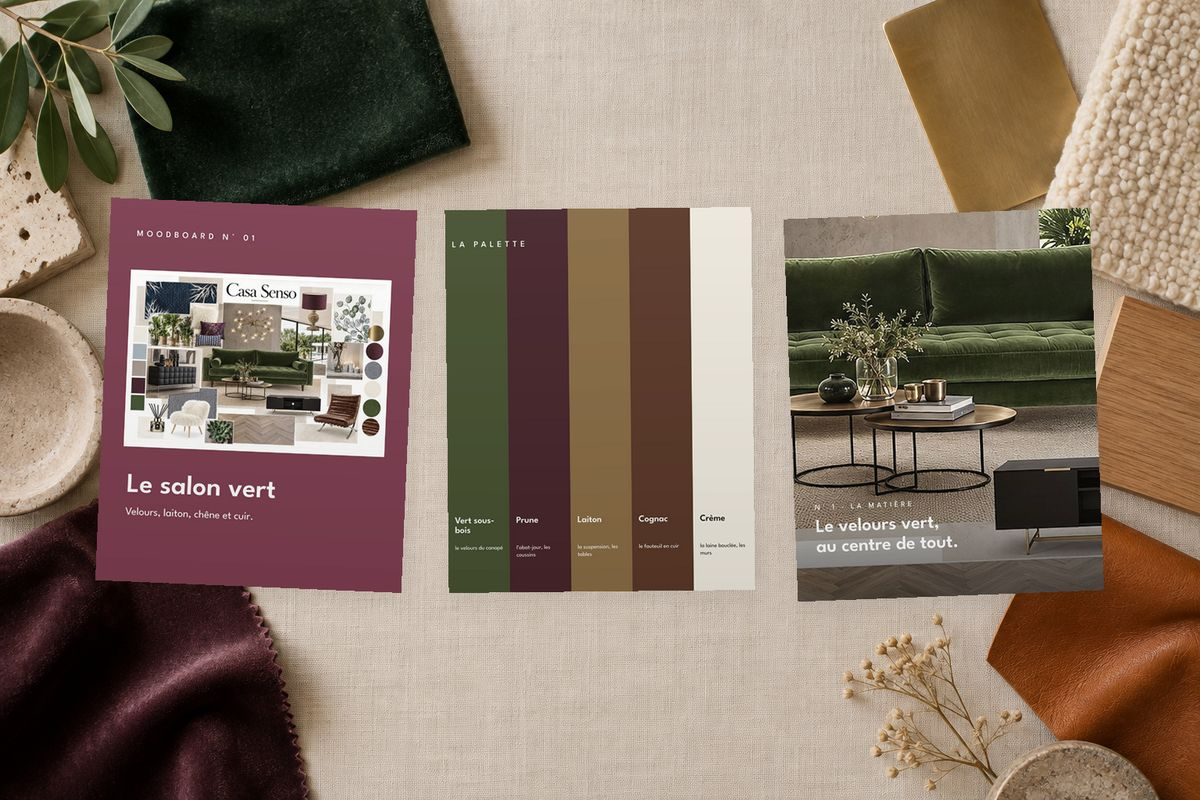
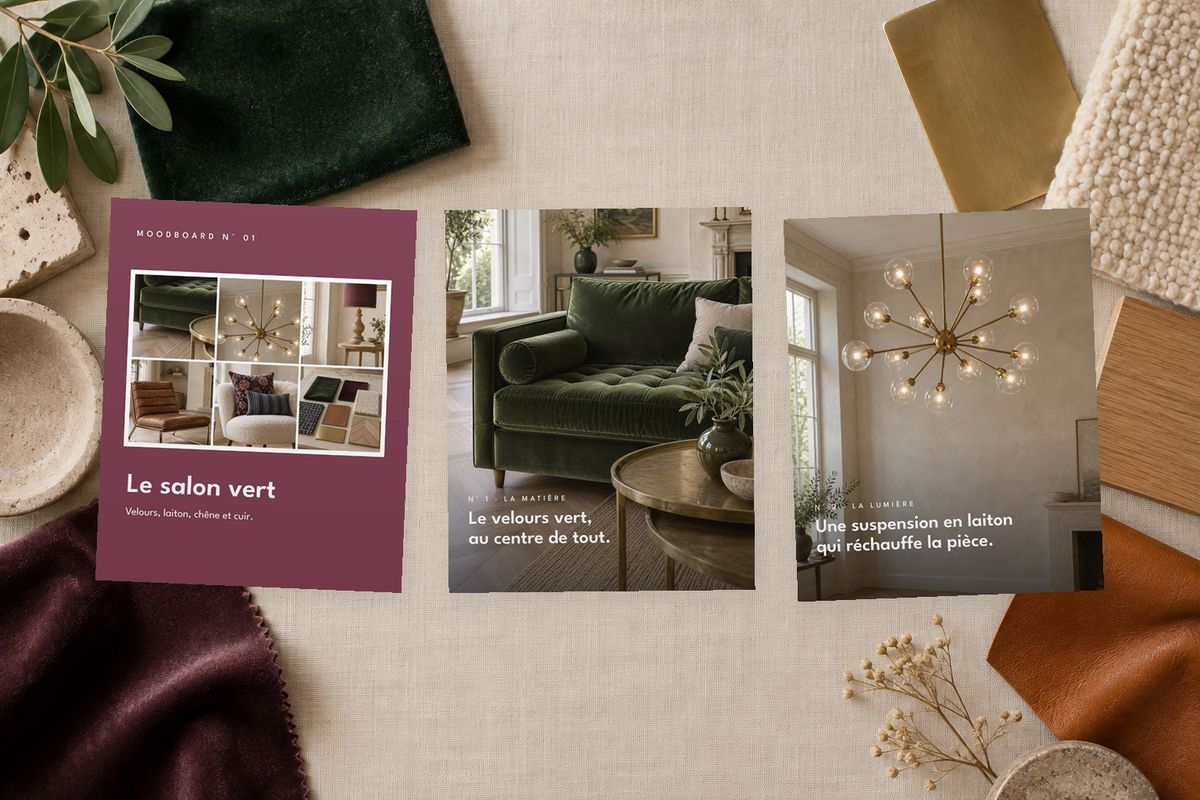
Voyage slide 2, moodboard v2 HQ, variantes Coulisses et Idées déco

Changed region(s): [[0.37, 0.25, 0.925, 0.75], [0.0925, 0.3438, 0.3392, 0.5625]]

diff --git a/social/2026-11-strategie-instagram/index.html b/social/2026-11-strategie-instagram/index.html
@@ -7,7 +7,7 @@
 /* Layout : page courte en une colonne ; les rubriques défilent comme dans Instagram, le calendrier se lit comme un agenda mensuel. */
 :root{
   --bg:#FBF8F3; --paper:#F3EDE3; --cell:#FFFFFF; --fg:#1E1A17; --muted:#6B625A; --line:#E4DBCE; --accent:#A69368; --today:#C8613F;
-  --r-livre:#A69368; --r-voyage:#9A5636; --r-aa:#C8613F; --r-mood:#7A3B4E; --r-real:#E2A79A; --r-cou:#4A4440; --r-pro:#6E7F73; --r-idees:#2F4FA2;
+  --r-livre:#A69368; --r-voyage:#9A5636; --r-aa:#C8613F; --r-mood:#7A3B4E; --r-real:#E2A79A; --r-cou:#4A4440; --r-pro:#6E7F73; --r-idees:#404734;
   --ok:#3F6B4E; --warn:#B4532F; --ph:#DCD2C4; --ph2:#C2B39F;
   --font:"League Spartan", "Helvetica Neue", Arial, sans-serif;
 }
@@ -238,7 +238,7 @@ function h(tag, props, ...kids){ const e = document.createElement(tag);
 const $ = s => document.querySelector(s);
 const R = (k, n) => Array.from({length:n}, (_, i) => `img/${k}-${String(i + 1).padStart(2, "0")}.jpg`);
 const COL = {livre:"var(--r-livre)", voyage:"var(--r-voyage)", aa:"var(--r-aa)", mood:"var(--r-mood)", real:"var(--r-real)", cou:"var(--r-cou)", pro:"var(--r-pro)", idees:"var(--r-idees)"};
-const HEX = {livre:"#A69368", aa:"#C8613F", mood:"#7A3B4E", real:"#E2A79A", cou:"#4A4440", pro:"#6E7F73", idees:"#2F4FA2"};
+const HEX = {livre:"#A69368", aa:"#C8613F", mood:"#7A3B4E", real:"#E2A79A", cou:"#4A4440", pro:"#6E7F73", idees:"#404734"};
 const PAT_OF = {livre:"Parcours + Trois cartes", voyage:"Raconter son parcours", aa:"Avant, pendant, après", mood:"Planche décortiquée", real:"Visite plein cadre", cou:"Coulisses en blocs", pro:"Fiche projet", idees:"Trois cartes, une couleur"};
 const NAME = {livre:"Le Livre", voyage:"Voyage", aa:"Avant / après", mood:"Moodboards", real:"Réalisations", cou:"Coulisses", pro:"Espaces pros", idees:"Idées déco"};
 
@@ -247,22 +247,22 @@ const RUBS = [
    tabs:[["Chapitre I", R("livre-1",7)],["II", R("livre-2",7)],["III", R("livre-3",8)],["IV", R("livre-4",8)]]},
   {id:"voyage", n:"02", name:"Inspiration et voyage", line:"Un carnet par lieu, photos plein cadre et un court texte.", chips:[["wait","Textes à valider"],["","Réserve"]],
    tabs:[["Marrakech", R("voyage",7)]]},
-  {id:"aa", n:"03", name:"Avant / après", line:"Une transformation en étapes, une phrase par photo.", chips:[["wait","Textes à valider"],["","3 déc."]],
-   tabs:[["Cannes", R("aa",9)],["Écran partagé", R("aa-var",12).slice(0,4)],["Récit sur photo", R("aa-var",12).slice(4,8)],["House & Garden", R("aa-var",12).slice(8,12)]]},
-  {id:"mood", n:"04", name:"Moodboards", line:"Sa planche, la palette, puis les pièces en gros plan.", chips:[["wait","Titres à valider"],["","15 déc."]],
-   tabs:[["Le salon vert", R("mood",8)]]},
+  {id:"aa", n:"03", name:"Avant / après", line:"Une transformation en étapes. 4 versions : une à choisir.", chips:[["wait","Textes à valider"],["","3 déc."]],
+   tabs:[["1 · Version complète", R("aa",9)],["2 · Écran partagé", R("aa-var",12).slice(0,4)],["3 · Récit sur photo", R("aa-var",12).slice(4,8)],["4 · House & Garden", R("aa-var",12).slice(8,12)]]},
+  {id:"mood", n:"04", name:"Moodboards", line:"Sa planche, la palette, puis les pièces en gros plan.", chips:[["wait","Proposition v2 à valider"],["","15 déc."]],
+   tabs:[["Le salon vert · v2 haute qualité", R("mood2",9)],["Version 1 (sa planche)", R("mood",8)]]},
   {id:"real", n:"05", name:"Réalisations", line:"La visite d’un projet terminé.", chips:[["ok","Prêt"],["","22 déc."]],
    tabs:[["Visite Cannes", R("real",9)],["3 couvertures", R("real-cov",3)]]},
-  {id:"cou", n:"06", name:"Coulisses et chantiers", line:"Laetitia au travail, étape par étape.", chips:[["wait","Textes à valider"],["","30 nov."]],
-   tabs:[["Post", R("cou-post",7)],["Version stories", R("cou-story",6), true]]},
+  {id:"cou", n:"06", name:"Coulisses et chantiers", line:"Laetitia au travail, étape par étape.", chips:[["wait","3 variantes à choisir"],["","30 nov."]],
+   tabs:[["A · Grand chiffre", R("couA",4)],["B · Légende blanche", R("couB",4)],["C · Demi-carte", R("couC",4)],["Version actuelle", R("cou-post",7)],["Stories", R("cou-story",6), true]]},
   {id:"pro", n:"07", name:"Espaces professionnels", line:"Un lieu pro et sa fiche projet.", chips:[["wait","Accord du restaurant"],["","26 janv."]],
    tabs:[["ICHI Ramen Shop", R("pro",9)]]},
-  {id:"idees", n:"08", name:"Idées déco", line:"Un conseil concret, à enregistrer.", chips:[["wait","Conseils à réécrire"],["","4 févr."]],
-   tabs:[["Version actuelle", R("idees",7)],["Bloc couleur", R("idees-alt",7)]]}
+  {id:"idees", n:"08", name:"Idées déco", line:"Un conseil concret, à enregistrer. Nouvelle DA alignée sur le site.", chips:[["wait","2 directions à choisir"],["","4 févr."]],
+   tabs:[["A · Page blanche", R("ideesA",6)],["B · Olive du site", R("ideesB",6)]]}
 ];
 
 // Couvertures
-["img/livre-1-01.jpg","img/real-cov-03.jpg","img/mood-01.jpg","img/aa-var-09.jpg","img/voyage-01.jpg","img/idees-01.jpg","img/pro-01.jpg","img/cou-post-01.jpg"].forEach((s, i) => $("#covers").append(h("img", {src:s, alt:""})));
+["img/livre-1-01.jpg","img/real-cov-03.jpg","img/mood2-01.jpg","img/aa-var-09.jpg","img/voyage-01.jpg","img/ideesB-01.jpg","img/pro-01.jpg","img/cou-post-01.jpg"].forEach((s, i) => $("#covers").append(h("img", {src:s, alt:""})));
 
 // Visionneuse
 let LB = {list:[], i:0, cap:""};
@@ -301,7 +301,7 @@ const PATS = [
    d:"Une étape par slide, une phrase parlée dans une bulle. On fait glisser pour voir la suite : la transformation se vit dans l'ordre."},
   {k:"visite", n:"Visite plein cadre", m:"Modèle House & Garden", r:["real"], list:R("real",9),
    d:"Le titre sur la couverture, puis les pièces sans aucun texte. Les photos font le travail ; une seule carte citation pour la voix du client."},
-  {k:"planche", n:"La planche décortiquée", m:"Modèle House & Garden", r:["mood"], list:R("mood",8),
+  {k:"planche", n:"La planche décortiquée", m:"Modèle House & Garden", r:["mood"], list:R("mood2",9),
    d:"On part de sa planche, on isole la palette, puis chaque matière en gros plan avec son nom. On comprend comment elle compose une pièce."},
   {k:"coulisses", n:"Coulisses en blocs", m:"Modèle Dorothée Meilichzon", r:["cou"], list:R("cou-story",6),
    d:"Une étape du chantier par écran, des phrases courtes dans des blocs foncés et le jour au-dessus. Se lit en trois secondes, en post ou en stories."},
@@ -326,12 +326,12 @@ const EVENTS = [
   {d:"2026-11-17", k:"livre", t:"Le Livre · Chapitre I", img:"img/livre-1-01.jpg", list:R("livre-1",7)},
   {d:"2026-11-30", k:"cou", t:"Coulisses · La niche", img:"img/cou-post-01.jpg", list:R("cou-post",7)},
   {d:"2026-12-03", k:"aa", t:"Avant / après · Cannes", img:"img/aa-01.jpg", list:R("aa",9)},
-  {d:"2026-12-15", k:"mood", t:"Moodboard · Le salon vert", img:"img/mood-01.jpg", list:R("mood",8)},
+  {d:"2026-12-15", k:"mood", t:"Moodboard · Le salon vert", img:"img/mood2-01.jpg", list:R("mood2",9)},
   {d:"2026-12-22", k:"real", t:"Réalisation · Cannes", img:"img/real-01.jpg", list:R("real",9)},
   {d:"2027-01-07", k:"cou", t:"Vidéo Casa Senso (à tourner)", flag:true},
   {d:"2027-01-19", k:"livre", t:"Le Livre · Chapitre II", img:"img/livre-2-01.jpg", list:R("livre-2",7)},
   {d:"2027-01-26", k:"pro", t:"Espace pro · ICHI", img:"img/pro-01.jpg", list:R("pro",9), flag:true},
-  {d:"2027-02-04", k:"idees", t:"Idées déco · 3 matières", img:"img/idees-01.jpg", list:R("idees",7)},
+  {d:"2027-02-04", k:"idees", t:"Idées déco · 3 matières", img:"img/ideesA-01.jpg", list:R("ideesA",6)},
   {d:"2027-02-11", k:"livre", t:"Le Livre · Chapitre III", img:"img/livre-3-01.jpg", list:R("livre-3",8)}
 ];
 const MONTHS = [[2026,10],[2026,11],[2027,0],[2027,1]];

diff --git a/outputs/batches/CASASENSO-moodboard-salon-vert-v2-20261113/compose.py b/outputs/batches/CASASENSO-moodboard-salon-vert-v2-20261113/compose.py
@@ -1,0 +1,23 @@
+# Recadrages 4:5 des images générées + planche de couverture (grille propre, fond blanc).
+from PIL import Image, ImageOps
+G = "generated/{}-gpt-v01.png"
+def crop(src, W, H, cx=0.5, cy=0.5):
+    im = Image.open(src).convert("RGB"); w, h = im.size; r = W / H
+    if w / h > r: nw = int(h * r); x0 = int((w - nw) * cx); im = im.crop((x0, 0, x0 + nw, h))
+    else: nh = int(w / r); y0 = int((h - nh) * cy); im = im.crop((0, y0, w, y0 + nh))
+    return im.resize((W, H), Image.LANCZOS)
+CY = {"velours":1.0, "laiton":0.0, "prune":0.7, "cuir":0.55, "matieres":0.8}
+for k, cy in CY.items(): crop(G.format(k), 1080, 1350, cy=cy).save(f"slides/{k}.jpg", quality=92)
+W, H, g = 2664, 1776, 24
+board = Image.new("RGB", (W, H), "white")
+cw = (W - 2 * g) // 3; rh = (H - g) // 2
+def zoom(k, cx, cy, side):
+    im = Image.open(G.format(k)).convert("RGB"); w, h = im.size
+    x0 = max(0, min(w - side, int(cx * w - side / 2))); y0 = max(0, min(h - side * rh // cw, int(cy * h - side * rh / cw / 2)))
+    return im.crop((x0, y0, x0 + side, y0 + int(side * rh / cw))).resize((cw, rh), Image.LANCZOS)
+tiles = [("velours", .42, .70, 640), ("laiton", .5, .22, 600), ("prune", .40, .44, 680),
+         ("cuir", .38, .52, 640), ("douceur", .45, .45, 600), ("matieres", .55, .62, 700)]
+for i, (k, cx, cy, side) in enumerate(tiles):
+    board.paste(zoom(k, cx, cy, side), ((i % 3) * (cw + g), (i // 3) * (rh + g)))
+board.save("slides/planche.jpg", quality=92)
+print("ok")

diff --git a/outputs/batches/CASASENSO-patterns-mockups-20261113/compose.py b/outputs/batches/CASASENSO-patterns-mockups-20261113/compose.py
@@ -7,7 +7,7 @@ SETS = {
  "cartes":    ["livre-1-01","livre-1-06","livre-1-07"],
  "aa":        ["aa-02","aa-03","aa-05"],
  "visite":    ["real-01","real-03","real-04"],
- "planche":   ["mood-01","mood-02","mood-03"],
+ "planche":   ["mood2-01","mood2-03","mood2-04"],
  "coulisses": ["cou-story-02","cou-story-04","cou-story-06"],
  "fiche":     ["pro-01","pro-02","pro-03"],
  "presse":    [None],

diff --git a/outputs/batches/CASASENSO-moodboard-salon-vert-v2-20261113/FICHE-DE-LOT.md b/outputs/batches/CASASENSO-moodboard-salon-vert-v2-20261113/FICHE-DE-LOT.md
@@ -1,0 +1,19 @@
+# Lot CASASENSO-moodboard-salon-vert-v2-20261113 · version 2 · statut : livré pour validation (13.11.2026)
+
+Demande de Diego (13.11.2026) : « au niveau du moodboard il faut bien plus de travail : on a repris l'image du moodboard de Laetitia mais la qualité n'est pas top. Il faudrait créer un moodboard via par exemple Higgsfield comme elle a fait, et que chaque image du moodboard soit mise en plus grande qualité directement dans les slides. Fais-moi une proposition. »
+Objectif et audience : abonnés et prospects particuliers ; montrer comment Laetitia compose une pièce, élément par élément.
+Format et nombre : carrousel 4:5, 8 slides ; 8 images générées.
+Mode : refonte (v2) du moodboard N° 01 « Le salon vert », même contenu que sa planche (00-planche.jpg du lot v1).
+Référence : sa planche (WeTransfer du 05.11) pour le contenu ; système de cartes House & Garden déjà validé pour la mise en page.
+  On reprend : ses éléments (canapé velours vert, suspension laiton, lampe abat-jour prune, fauteuil cuir cognac, buffet noir capitonné, fauteuil moumoute, plantes, nuancier).
+  On ne copie pas : aucune marque ni modèle de designer identifiable ; pas de pièce entière (ne doit pas passer pour une réalisation).
+Fabrication : GPT Image 2.5 (gpt-image-2.5-sunburst, medium, 1024×1536, recadré en 4:5), une image par élément, sans personne ni texte. Composition et textes dans Figma.
+Statut des images : images d'inspiration générées, jamais présentées comme des réalisations ni comme des produits précis.
+Textes : ceux du lot v1 (citation et fin = ses mots ; titres = proposés par Contrast, à valider).
+Retours : en attente.
+
+## Fabrication réelle
+- 8 générations GPT Image 2.5 (1024×1536 ; un premier lancement en 1216×1520 a été refusé par l'outil avant tout appel, rien de facturé). 0 retouche. Job IDs et coût : inconnus.
+- `compose.py` : recadrages 4:5 (slides/) et planche de couverture (6 vignettes serrées).
+- Figma page 02, section 113:591 « Moodboard v2 · Le salon vert », 9 slides : couverture (planche HQ), palette, velours, laiton, prune, cuir, citation, matières, fin.
+- Images utilisées : velours, laiton, prune, cuir, matières (slides) ; douceur dans la planche ; noir et végétal générés mais non utilisés.

diff --git a/docs/decisions-strategie.md b/docs/decisions-strategie.md
@@ -172,3 +172,17 @@ Format : date · décision · raison · remplace · statut · source.
 - **Remplace** : l'entrée du 18 nov. ajoutée le même jour.
 - **Statut** : décidé.
 - **Source** : Diego, conversation du 13.11.2026.
+
+## 2026-11-13 · Site codé : reproduction à l'identique du site Wix
+- **Décision** : le site Wix actuel est reproduit à l'identique en code (Astro, dossier `site/`), mêmes adresses de pages, mêmes textes et images. Corrections intégrées : lien téléphone sur le numéro affiché (+41 76 615 09 43), bouton rendez-vous du menu mobile vers studio@casa-senso.ch, pages indexables à la bascule, tablette propre.
+- **Raison** : demande de Diego (« faire exactement le même site web »), suite de la bascule décidée le 12.11.
+- **Remplace** : —
+- **Statut** : construit et relu visuellement le 13.11 ; non déployé. Restent : licence PP Hatton, numéro et adresse à confirmer par Laetitia, clé Resend, mesure (GA4, Search Console, pixel Meta), accès GoDaddy.
+- **Source** : message de Diego du 13.11.2026 ; `site/PROJECT.md` ; relevé `sources/site-wix-2026-11-13/`.
+
+## 2026-11-13 · Retours de Diego sur les rubriques (Voyage, Moodboard, Coulisses, Idées déco)
+- **Décision** : Voyage slide 2 remplacée (boutique de céramiques, Laetitia au second plan : elle ne veut pas de portrait au premier plan) ; Moodboard refait en v2 haute qualité (éléments de sa planche recréés un par un, GPT Image 2.5) ; Coulisses : 3 variantes de mise en page à choisir ; Idées déco : bleu abandonné, 2 nouvelles directions alignées sur le site (noir et blanc, ou olive #404734).
+- **Raison** : retours de Diego du 13.11 (qualité de la planche, mise en page des coulisses, bleu hors charte du site).
+- **Remplace** : portrait slide 2 ; moodboard v1 ; couleur bleu majorelle des Idées déco.
+- **Statut** : propositions livrées, choix de Diego en attente (Coulisses A/B/C, Idées déco A/B, Avant/après 1 à 4).
+- **Source** : Diego, conversation du 13.11.2026.

diff --git a/outputs/batches/CASASENSO-idees-deco-da-20261113/FICHE-DE-LOT.md b/outputs/batches/CASASENSO-idees-deco-da-20261113/FICHE-DE-LOT.md
@@ -1,0 +1,9 @@
+# Lot CASASENSO-idees-deco-da-20261113 · statut : livré pour choix (13.11.2026)
+Demande de Diego : « Idées déco : revoir complètement la DA ; le bleu est bizarre, on sort de la charte du site ».
+Référence : site casa-senso.ch (blanc #FFFFFF, noir #000000, gris #EEEEEE / #F7F7F7, olive #404734 des voiles et de l'accroche ; filet noir, bouton pilule fléché, beaucoup de blanc). Captures site-*.png dans ce dossier.
+Post « 3 matières qui réchauffent un intérieur » (4 févr.), 2 directions × 6 slides. Figma page 02, section 113:701.
+- A · Page blanche : noir et blanc du site, photo en haut, texte dessous, bouton fléché, « À retenir » sur gris.
+- B · Olive du site : cartes olive #404734, conseils en photo plein cadre avec légende blanche, « À retenir » sur #F7F7F7.
+Bleu majorelle #2F4FA2 abandonné ; couleur de rubrique provisoire dans l'artefact : olive #404734 (à confirmer selon la direction choisie).
+Mêmes photos (Cannes HD-14, HD-19, HD-5, HD-22) et mêmes textes (tous proposés par Contrast). Aucune génération.
+Retours : en attente.

diff --git a/outputs/batches/CASASENSO-coulisses-variantes-20261113/FICHE-DE-LOT.md b/outputs/batches/CASASENSO-coulisses-variantes-20261113/FICHE-DE-LOT.md
@@ -1,0 +1,9 @@
+# Lot CASASENSO-coulisses-variantes-20261113 · statut : livré pour choix (13.11.2026)
+Demande de Diego : « Coulisses et chantiers : fais-moi plusieurs variantes car pas fan de la mise en page ».
+Post « La niche » (30 nov.), 4:5, 3 variantes × 4 slides (couverture, jour 1, jour 3, fin). Figma page 02, section 113:501.
+- A · Grand chiffre (modèle AD / Jake Arnold) : page blanche, « 3 jours » / « 01 » / « 03 » en très grand, photo dessous.
+- B · Légende blanche (modèle Apartamento) : photo en haut, bande blanche avec mention, phrase et folio « 1 / 4 ».
+- C · Demi-carte (cartes House & Garden) : carte encre chaude #4A4440 à gauche, photo à droite, barre de progression du jour.
+Mêmes photos et mêmes textes (tous proposés par Contrast). Aucune génération.
+Alerte : la photo de la structure jaune (IMG_3030 ; COP-1, COP-2, story CO-1) laisse lire « swisspor XPS » : marque de matériau visible, à recadrer avant publication.
+Retours : en attente.
